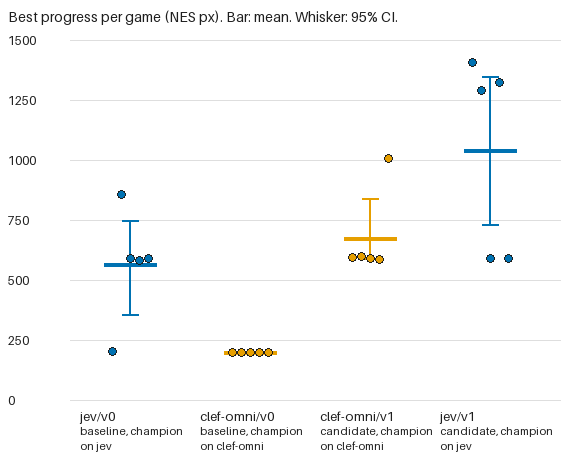
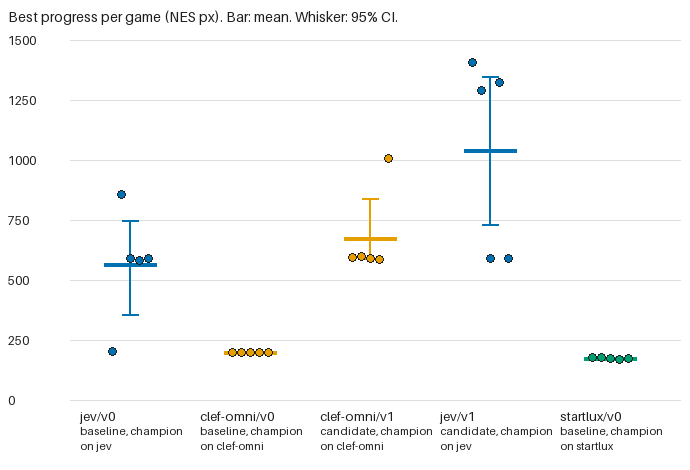
Record the startlux v0 baseline: 175.0 NES px, every life ends at the first Goomba
Five games with the 2B Instant MLX 8-bit checkpoint, about 2.4 s a step.
Mean best progress is 175.0 px, 95% CI [173.1, 177.0], with no clears. The
death sheet shows all 15 lives walking into the first Goomba at 138-178 px.

diff --git a/experiments/REPORT.md b/experiments/REPORT.md
@@ -8,6 +8,7 @@ Generated by `python -m s1play.report` from `ledger.tsv`. Progress is the best s
 |---|---|---|---|---|---|
 | clef-omni | clef-omni/v1 | 675.5 [590.1, 841.6] | 5 | 0 | Law threshold 0.1 instead of 0.5. Clef-omni's jump_now scores sit between 0.08 and 0.21 on jump frames, so a 0.1 cutoff fires the jump that 0.5 never does. |
 | jev | jev/v1 | 1041.9 [732.8, 1351.0] | 5 | 0 | Law threshold 0.7 instead of 0.5. Jev separates jump frames well (AUC 0.961) but 0.5 over-jumps on 38 of 89 RUN frames, so a 0.7 cutoff trims the false jumps. |
+| startlux | startlux/v0 | 175.0 [173.1, 177.0] | 5 | 0 | Baseline: the questions and law as first written. Served by StartLux-Decision-v1.1-2B-Instant-MLX-8bit. |
 
 ## Lineage
 
@@ -25,16 +26,23 @@ Generated by `python -m s1play.report` from `ledger.tsv`. Progress is the best s
 | jev/v0 | baseline | 565.4 [359.0, 749.1] | - | champion | 204.8, 857.6, 592.0, 582.4, 590.4 |
 | jev/v1 | candidate | 1041.9 [732.8, 1351.0] | 97.6 | champion | 1408.0, 1292.8, 593.6, 1323.2, 592.0 |
 
+### startlux
+
+| Harness | Role | Mean [95% CI] | Lower bound of delta CI | Decision | Games |
+|---|---|---|---|---|---|
+| startlux/v0 | baseline | 175.0 [173.1, 177.0] | - | champion | 177.6, 177.6, 174.4, 171.2, 174.4 |
+
 ## Model against model
 
 Each row is a harness. Each column is the model that played it. A cell off the diagonal is a transfer run.
 
-| Harness | clef-omni | jev |
-|---|---|---|
-| jev/v0 |  | 565.4 [359.0, 749.1] n=5 |
-| clef-omni/v0 | 201.3 [200.6, 201.6] n=5 |  |
-| clef-omni/v1 | 675.5 [590.1, 841.6] n=5 |  |
-| jev/v1 |  | 1041.9 [732.8, 1351.0] n=5 |
+| Harness | clef-omni | jev | startlux |
+|---|---|---|---|
+| jev/v0 |  | 565.4 [359.0, 749.1] n=5 |  |
+| clef-omni/v0 | 201.3 [200.6, 201.6] n=5 |  |  |
+| clef-omni/v1 | 675.5 [590.1, 841.6] n=5 |  |  |
+| jev/v1 |  | 1041.9 [732.8, 1351.0] n=5 |  |
+| startlux/v0 |  |  | 175.0 [173.1, 177.0] n=5 |
 
 ![progress](progress.png)
 
@@ -50,6 +58,8 @@ Three frames up to the moment progress stopped, per life.
   Progress where each life ended: 202, 565, 578, 578, 579, 581, 582, 582, 584, 586, 587, 590, 595, 598, 1006
 - 20261031-184839-jev-v1: ![deaths](20261031-184839-jev-v1/deaths.jpg)
   Progress where each life ended: 198, 200, 202, 202, 202, 571, 579, 587, 589, 592, 594, 600, 1293, 1323, 1408
+- 20261031-204851-startlux-v0: ![deaths](20261031-204851-startlux-v0/deaths.jpg)
+  Progress where each life ended: 138, 163, 163, 163, 165, 166, 166, 166, 166, 166, 171, 174, 174, 178, 178
 
 ## Superseded rows
 
